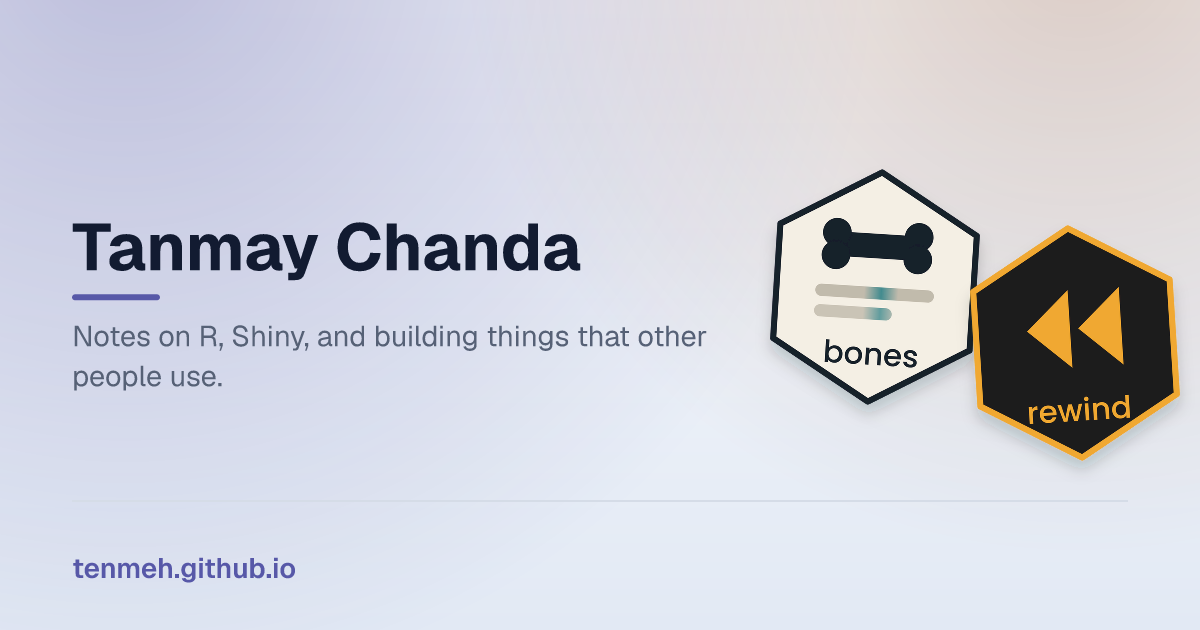
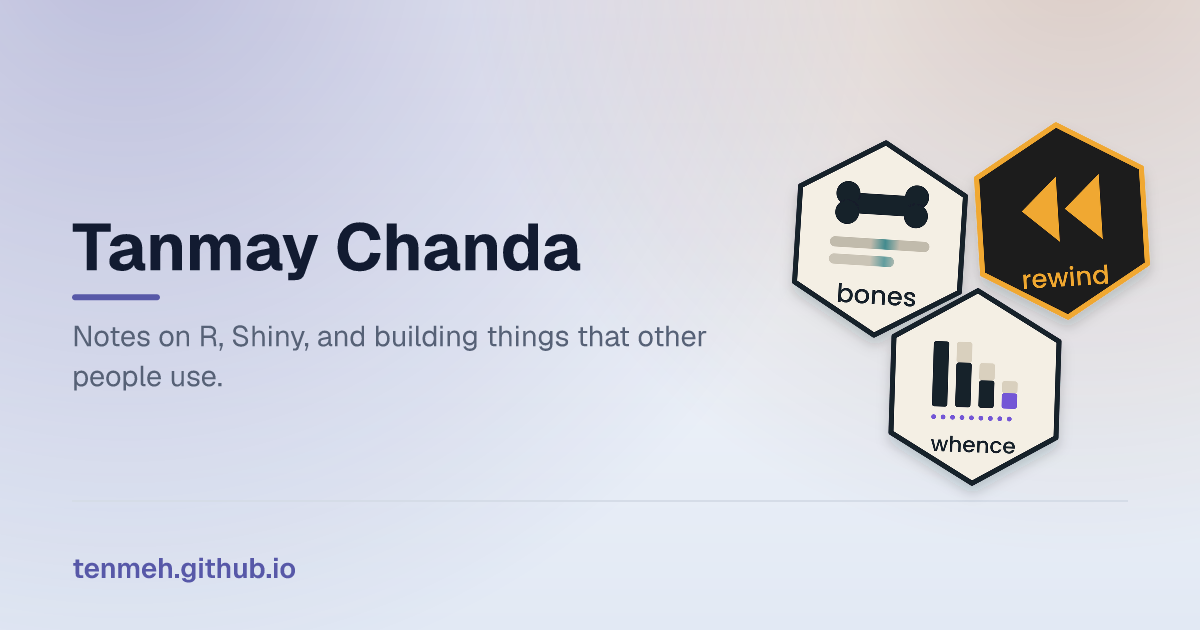
Built site for gh-pages

Changed region(s): [[0.6167, 0.181, 0.9867, 0.7841]]

diff --git a/index.html b/index.html
@@ -415,7 +415,7 @@ window.Quarto = {
 <div class="post-list">
 
 <p class="list-label">Latest post</p>
-<article class="lead-post" data-index="0" data-categories="UiUyQ1NoaW55" data-listing-date-sort="1791849600000" data-listing-file-modified-sort="1792208063622" data-listing-date-modified-sort="NaN" data-listing-reading-time-sort="9" data-listing-word-count-sort="1660">
+<article class="lead-post" data-index="0" data-categories="UiUyQ1NoaW55" data-listing-date-sort="1791849600000" data-listing-file-modified-sort="1792897440545" data-listing-date-modified-sort="NaN" data-listing-reading-time-sort="9" data-listing-word-count-sort="1660">
   <a class="lead-link" href="./posts/2026-10-13-recording-shiny-demos/index.html">
     
     <span class="lead-hero"><img src="posts/2026-10-13-recording-shiny-demos/hero.svg" alt="" width="800" height="320"></span>
@@ -433,7 +433,7 @@ window.Quarto = {
 <p class="list-label list-label-more">More posts</p>
 <div class="more-posts">
 
-<article class="row-post" data-index="1" data-categories="UiUyQ1NoaW55JTJDcGFja2FnZXM=" data-listing-date-sort="1790899200000" data-listing-file-modified-sort="1792208063621" data-listing-date-modified-sort="NaN" data-listing-reading-time-sort="6" data-listing-word-count-sort="1027">
+<article class="row-post" data-index="1" data-categories="UiUyQ1NoaW55JTJDcGFja2FnZXM=" data-listing-date-sort="1790899200000" data-listing-file-modified-sort="1792897440543" data-listing-date-modified-sort="NaN" data-listing-reading-time-sort="6" data-listing-word-count-sort="1027">
   <a class="row-link" href="./posts/2026-10-02-rewind-0-3-0/index.html">
     
     <span class="row-hero"><img src="posts/2026-10-02-rewind-0-3-0/hero.svg" alt="" width="800" height="320" loading="lazy"></span>
@@ -449,7 +449,7 @@ window.Quarto = {
   </a>
 </article>
 
-<article class="row-post" data-index="2" data-categories="UiUyQ1NoaW55JTJDcGFja2FnZXM=" data-listing-date-sort="1790553600000" data-listing-file-modified-sort="1792208063621" data-listing-date-modified-sort="NaN" data-listing-reading-time-sort="7" data-listing-word-count-sort="1344">
+<article class="row-post" data-index="2" data-categories="UiUyQ1NoaW55JTJDcGFja2FnZXM=" data-listing-date-sort="1790553600000" data-listing-file-modified-sort="1792897440542" data-listing-date-modified-sort="NaN" data-listing-reading-time-sort="7" data-listing-word-count-sort="1344">
   <a class="row-link" href="./posts/2026-09-28-how-bones-began/index.html">
     
     <span class="row-hero"><img src="posts/2026-09-28-how-bones-began/hero.svg" alt="" width="800" height="320" loading="lazy"></span>
@@ -465,7 +465,7 @@ window.Quarto = {
   </a>
 </article>
 
-<article class="row-post" data-index="3" data-categories="UiUyQ1NoaW55JTJDcGFja2FnZXM=" data-listing-date-sort="1787788800000" data-listing-file-modified-sort="1792208063620" data-listing-date-modified-sort="NaN" data-listing-reading-time-sort="5" data-listing-word-count-sort="967">
+<article class="row-post" data-index="3" data-categories="UiUyQ1NoaW55JTJDcGFja2FnZXM=" data-listing-date-sort="1787788800000" data-listing-file-modified-sort="1792897440541" data-listing-date-modified-sort="NaN" data-listing-reading-time-sort="5" data-listing-word-count-sort="967">
   <a class="row-link" href="./posts/2026-08-27-undo-for-shiny/index.html">
     
     <span class="row-hero"><img src="posts/2026-08-27-undo-for-shiny/hero.svg" alt="" width="800" height="320" loading="lazy"></span>
@@ -511,6 +511,18 @@ window.Quarto = {
     </div>
     <div class="pkg-install">
       <code>install.packages("bones")</code>
+      <button type="button" class="pkg-copy" aria-label="Copy the install command"><i class="bi bi-clipboard" aria-hidden="true"></i></button>
+    </div>
+  </div>
+  <div class="pkg-card">
+    <img src="https://tenmeh.github.io/whence/logo.png" alt="whence hex logo">
+    <div class="pkg-text">
+      <a class="pkg-name" href="https://tenmeh.github.io/whence/">whence</a>
+      <span class="pkg-where pkg-cran">on CRAN</span>
+      <p>Explain where a number came from in Shiny dashboards.</p>
+    </div>
+    <div class="pkg-install">
+      <code>install.packages("whence")</code>
       <button type="button" class="pkg-copy" aria-label="Copy the install command"><i class="bi bi-clipboard" aria-hidden="true"></i></button>
     </div>
   </div>

diff --git a/about.html b/about.html
@@ -349,6 +349,7 @@ ul.task-list li input[type="checkbox"] {
 <ul>
 <li><strong>rewind</strong> - undo and redo for Shiny applications. On CRAN. <a href="https://tenmeh.github.io/rewind/">Documentation</a> - <a href="https://github.com/tenmeh/rewind">source</a>.</li>
 <li><strong>bones</strong> - content-shaped loading placeholders for Shiny outputs. On CRAN. <a href="https://tenmeh.github.io/bones/">Documentation</a> - <a href="https://github.com/tenmeh/bones">source</a>.</li>
+<li><strong>whence</strong> - explain where a number came from in Shiny dashboards. On CRAN. <a href="https://tenmeh.github.io/whence/">Documentation</a> - <a href="https://github.com/tenmeh/whence">source</a>.</li>
 </ul>
 <p>Find me on <a href="https://github.com/tenmeh">GitHub</a>.</p>
 <section id="blogroll" class="level2">
